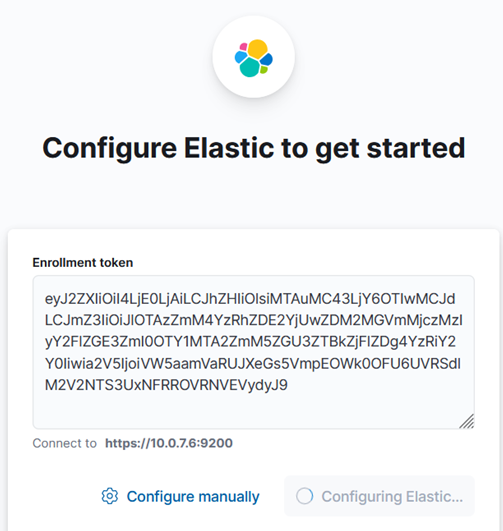
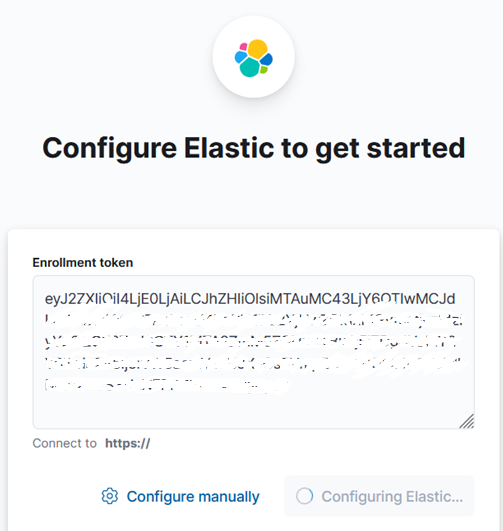
Editing SIEM problems i faced

Changed region(s): [[0.0895, 0.5424, 0.9245, 0.7533], [0.2982, 0.8136, 0.4771, 0.8437]]

diff --git a/_posts/2024-10-17-siem-problems.md b/_posts/2024-10-17-siem-problems.md
@@ -51,9 +51,22 @@ cluster.initial_master_nodes: ["localhost.localdomain"]
 ## Kibana
 I faced issues when trying to connect Kibana to Elasticsearch using a token. The error I received was due to a mismatch between the certificate's alternative names and the server IP. The solution was to manually configure the network host:
 
+### Error:
+
+```json
+{"service":{"node":{"roles":["background_tasks","ui"]}},"ecs":{"version":"8.11.0"},"@timestamp":"2024-08-22T12:27:10.910+03:00","message":"Failed to authenticate \"enroll-process-token-1724318822534\" token to host \"https://10.0.7.6:9200\": Hostname/IP does not match certificate's altnames: IP: 10.0.7.6 is not in the cert's list: ::1, 127.0.0.1, 192.168.145.135, fe80::20c:29ff:fe96:edb4.","log":{"level":"ERROR","logger":"plugins.interactiveSetup.elasticsearch"},"process":{"pid":34587,"uptime":1092.41374744},"trace":{"id":"21607abec9b53b1130023016c3809480"},"transaction":{"id":"64a03452c2dbc8ce"}}
+```
+### Solution:
+
 ```yaml
 network.publish_host: 127.0.0.1
 ```
+![kibana conf file network section](assets/img/siem/kibana-error-solution.png)
+
+but this did not work with me so i made it manually
+
+![configure elastic at first start](assets/img/siem/configure-elastic-to-get-started.png)
+
 
 ## Logstash
 Running Logstash as a service resulted in certificate errors with Elasticsearch. I resolved this by running Logstash from its own `bin` directory and manually copying configuration files.
